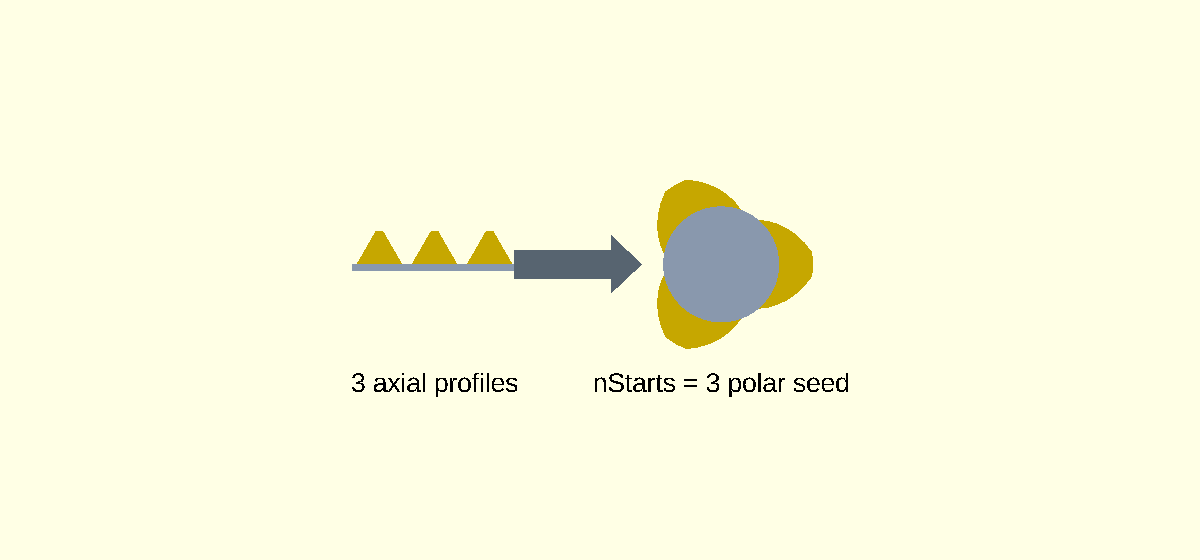
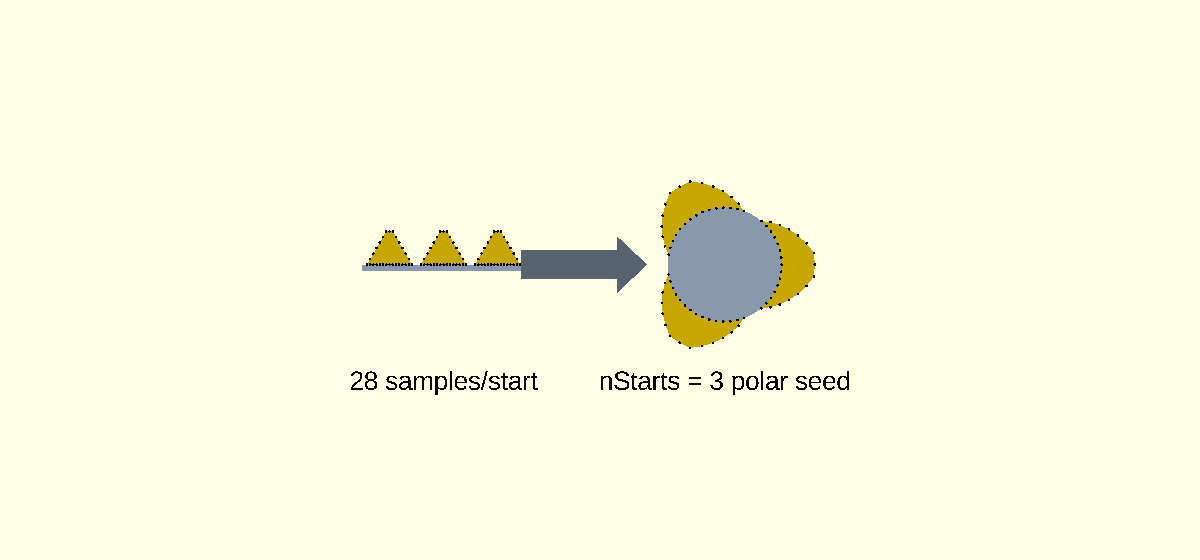
Better docs on the thread generation alg

diff --git a/LogoSC-Nuts-And-Bolts-Customizer.md b/LogoSC-Nuts-And-Bolts-Customizer.md
@@ -89,6 +89,54 @@ into the helical ridge later joined to a cylindrical core. `RenderFastenerThread
 that core, clips the ridge to the requested length and chamfers, and is also reused as the
 slightly enlarged cutter subtracted from a nut.
 
+### Where LogoSC is actually used
+
+LogoSC is used, but only for the 2D contour stage. The division of work is:
+
+- Native OpenSCAD functions calculate the profile's axial/radial point coordinates from the
+  selected pitch and profile ratios.
+- `FastenerLogoPath()` expands those points into a LogoSC command list. `evalLogo()` evaluates
+  that list into a LogoSC region, and `RenderLogo2D()` renders it in `Profile` and
+  `Algorithm Figure` modes.
+- Native OpenSCAD code then resamples the evaluated LogoSC contour, maps it into polar XY
+  coordinates, applies `linear_extrude(twist)`, and performs the cylinders and booleans.
+
+Thus LogoSC supplies the authoritative closed 2D ridge contour, but it does not calculate the
+thread proportions or perform the helical or 3D work. The generated profile uses absolute
+`GOTO` commands rather than relative `MOVE` and `TURN` commands because its coordinates come
+from the selected pitch and profile equations.
+
+For the three-start figure below (`CustomPitch = 3`, V60),
+`FastenerProfilePoints()` first returns:
+
+```scad
+[
+    [-1.24999, 0],
+    [-0.1875, 1.84029],
+    [ 0.1875, 1.84029],
+    [ 1.24999, 0]
+]
+```
+
+`FastenerLogoPath()` expands those four points into this actual LogoSC command list:
+
+```scad
+profileCommands =
+[
+    [PENUP],
+    [GOTO, -1.24999, 0, 0],
+    [PENDOWN],
+    [GOTO, -0.1875, 1.84029, 0],
+    [GOTO,  0.1875, 1.84029, 0],
+    [GOTO,  1.24999, 0, 0],
+    [GOTO, -1.24999, 0, 0]
+];
+```
+
+The final `GOTO` closes the ridge explicitly. LogoSC's opcodes are integer constants, so the
+OpenSCAD console prints the same list as `[[9], [4, ...], [10], ...]`; symbolically these are
+`PENUP = 9`, `GOTO = 4`, and `PENDOWN = 10`.
+
 The transformation proceeds as follows:
 
 1. `FastenerProfilePoints()` constructs one ridge in conventional axial/radial coordinates.
@@ -140,8 +188,43 @@ an exact slice height ensures the requested resolution and twist remain phase-co
 
 The left panel shows three V60 profiles at pitch spacing. The right panel is the actual polar
 seed for `nStarts = 3`, viewed straight down the thread axis. It is effectively the unextruded
-slice passed to `linear_extrude(twist)`; the light-blue circle is the core and the three gold
-lobes are the ridge seeds.
+slice passed to `linear_extrude(twist)`; the light-blue circle is the core, the three gold lobes
+are the ridge seeds, and the black dots are the resampled contour points.
+
+### How expansion and sampling work
+
+The four profile points become seven LogoSC commands because setup needs `PENUP`, the first
+`GOTO`, and `PENDOWN`, while explicit closure adds the last `GOTO`. Evaluating that list produces
+one usable contour with five points: the four corners plus the repeated closing point. The
+evaluation result also retains the empty initial region that precedes `PENDOWN`;
+`RenderFastenerThreadSeed()` ignores regions whose outer contour has fewer than three points.
+
+`FastenerResampleContour()` visits the four unique contour edges. For endpoints `a` and `b`,
+`FastenerProfileSegmentSamples()` selects:
+
+```text
+edgeSamples = max(
+    1,
+    ceil(abs(b[0] - a[0]) * ProfileSamplesPerTurn / lead),
+    ceil(abs(b[1] - a[1]) * ProfileSamplesPerTurn / (2 * lead))
+)
+```
+
+For the displayed values, `ProfileSamplesPerTurn = 48`, `pitch = 3`, and `nStarts = 3`, so
+`lead = 9`. The two sloping flanks receive 6 samples each, the crest receives 2, and the closing
+base receives 14. That produces `6 + 2 + 6 + 14 = 28` points per start. Each edge emits its
+starting point and intermediate samples but not its endpoint; the next edge emits that endpoint,
+so adjacent edges do not duplicate points.
+
+Axial distance gets the stronger sampling weight because it becomes angular travel in the polar
+map; radial distance uses the `2 * lead` denominator. The long closing base therefore receives
+the most samples: after wrapping, it is the inner circular boundary of the ridge seed. Without
+those intermediate points it would become one straight chord cutting across the core.
+
+`FastenerWrapPoint()` maps all 28 points into the first polar seed. Rotating that seed for three
+starts produces `3 * 28 = 84` seed points in each extrusion slice. The figure is generated from
+those exact arrays, and its console diagnostic reports `evaluatedContourPoints = 5`,
+`samplesPerStart = 28`, `nStarts = 3`, and `totalSeedSamples = 84`.
 
 ### Sampling cost
 
@@ -160,12 +243,35 @@ number of axial slices. Final CGAL union, intersection, and subtraction time is
 implementation- and geometry-dependent and does not have a useful simple `O(n)` bound here; in
 practice those booleans dominate full renders.
 
-### Generate the profile and mapping figure from the command line
+### Echo the LogoSC commands and generate the images
+
+`Profile` mode echoes both the calculated point list and expanded LogoSC command list. This
+tested PowerShell command captures them without exporting a mesh or image:
+
+```powershell
+$openScadCli = 'C:\Program Files\OpenSCAD\openscad.com'
+$profileEchoPath = Join-Path $env:TEMP 'LogoSC-fastener-profile.echo'
+
+& $openScadCli `
+    -D 'Part=\"Profile\"' `
+    -D 'ScrewSize=\"Custom\"' `
+    -D 'CustomDiameter=10' `
+    -D 'CustomPitch=3' `
+    -D 'ThreadProfile=\"V60\"' `
+    -o $profileEchoPath `
+    'LogoSC-Nuts-And-Bolts.scad'
+
+if ($LASTEXITCODE -ne 0)
+{
+    throw "OpenSCAD profile evaluation failed with exit code $LASTEXITCODE."
+}
+
+Get-Content -LiteralPath $profileEchoPath
+```
 
 This tested PowerShell command exports the ordinary M8 V60 profile to a temporary PNG:
 
 ```powershell
-$openScadCli = 'C:\Program Files\OpenSCAD\openscad.com'
 $profilePngPath = Join-Path $env:TEMP 'LogoSC-fastener-profile.png'
 
 & $openScadCli `

diff --git a/LogoSC-Developer-Notebook.md b/LogoSC-Developer-Notebook.md
@@ -2440,13 +2440,19 @@ Decision:
 - Document the point mapping, slice equations, overrun and clipping behavior, and the nominal
   `O(s * n * k)` ridge-mesh cost for `s = nStarts`, `n` sampled seed points, and `k` slices.
   Keep CGAL boolean complexity separate because it depends on geometry and implementation.
+- State the implementation boundary directly: native OpenSCAD calculates the profile points;
+  LogoSC expands and evaluates the closed 2D contour; native OpenSCAD then resamples, wraps,
+  extrudes, and performs booleans. Show the actual symbolic LogoSC command list rather than only
+  naming `FastenerLogoPath()` and `evalLogo()`.
 - Add `Algorithm Figure` output to the standalone fastener model, plus the space-free
   command-line alias `Algorithm` for OpenSCAD 2021.01 on Windows.
 - Generate `images/fastener-thread-wrapping-three-start.png` from the actual LogoSC evaluation
   and polar-mapping routines. The left panel shows three pitch-spaced axial profiles; the right
   panel shows their three 120-degree-spaced polar seeds, equivalent to the unextruded input
-  slice.
-- Add exact tested PowerShell commands for the normal profile PNG and the mapping figure.
+  slice. Mark the exact resampled contour points and label the 28-samples-per-start result.
+- Echo the generated point and LogoSC command arrays from `Profile` mode, report contour and
+  sample totals from `Algorithm Figure`, and add exact tested PowerShell commands for the echo,
+  normal profile PNG, and mapping figure.
 
 Consequences:
 

diff --git a/CHANGELOG.md b/CHANGELOG.md
@@ -30,9 +30,11 @@
   four-times-resolution fastener assembly PNG is generated with Customizer overrides, camera
   framing, explicit pixel dimensions, and elapsed-time reporting.
 - Documented the fastener thread algorithm, its main routines and variables, `nStarts`
-  multi-start phase construction, and profile/slice complexity. Added a reproducible
-  `Algorithm Figure` output, exact profile and figure export commands, and
-  `images/fastener-thread-wrapping-three-start.png` generated from the real polar seed.
+  multi-start phase construction, the actual generated LogoSC command list, contour expansion,
+  exact resampling counts, and profile/slice complexity. Added profile-command console
+  diagnostics, a reproducible sampled `Algorithm Figure` output, exact echo/profile/figure
+  commands, and `images/fastener-thread-wrapping-three-start.png` generated from the real polar
+  seed and sample arrays.
 - Kept the Core API unchanged: LogoSC supplies evaluated 2D profiles, while the new model uses
   native OpenSCAD twisted extrusion, cylinders, clipping, and boolean subtraction for 3D output.
 

diff --git a/LogoSC-OpenSCAD-Command-Line.md b/LogoSC-OpenSCAD-Command-Line.md
@@ -245,9 +245,10 @@ six profile names, and use an `800,450` image. The head images use a short bolt 
 their drive-side view was selected with `--camera '0,0,0,235,0,25,50'`. The headless image uses
 the opposite `55`-degree X rotation because its drive is at the free shaft end.
 
-The fastener Customizer guide gives the complete tested PowerShell commands for both an ordinary
-profile PNG and the three-start algorithm figure, together with the polar-mapping equations and
-sampling-cost discussion. See [How the thread algorithm works][fastener-algorithm].
+The fastener Customizer guide gives complete tested PowerShell commands for echoing the expanded
+LogoSC profile command list, exporting an ordinary profile PNG, and reproducing the sampled
+three-start algorithm figure. It also documents the polar mapping and exact sampling counts.
+See [How the thread algorithm works][fastener-algorithm].
 
 ## Example 4: export a normal model
 
